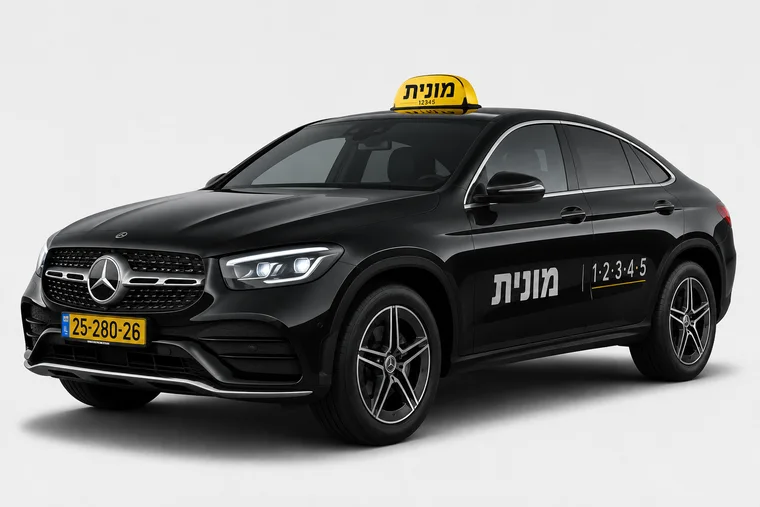
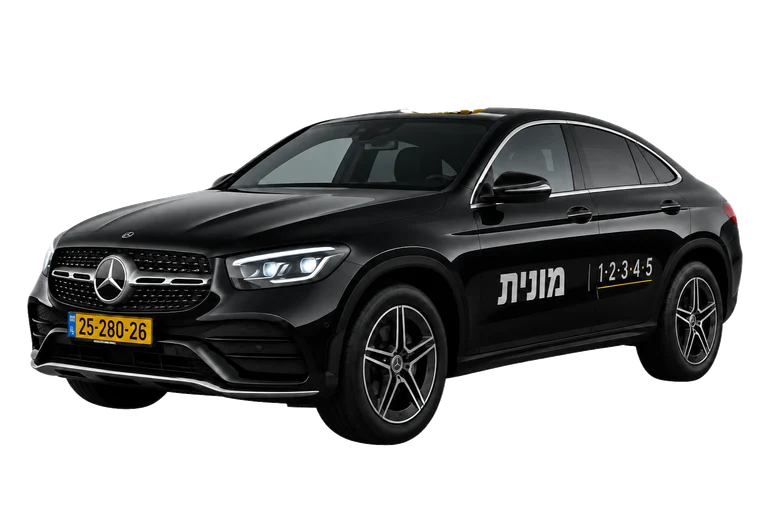
Add Premium fleet + airport sections; transparent floating car images
- 4 car images now transparent WebP (edge flood-fill white->alpha), float on dark cards
- Hero car image also transparent for consistency; enlarged cars in cards
- New "Premium fleet" showroom section after hero (full-width image)
- New full-bleed airport (Natbag) banner section with real clickable WhatsApp CTA over the painted button + descriptive alt for SEO/a11y
- Added "airport" nav link; all new sections responsive (mobile stacks, banner keeps aspect-ratio)
- Restored favicon/logo/hero/og assets that were removed from disk

diff --git a/index.html b/index.html
@@ -264,11 +264,21 @@ header.scrolled{background:rgba(11,11,13,.9);border-block-end-color:var(--line);
 .car-card:hover{border-color:rgba(217,190,134,.4);transform:translateY(-4px)}
 .car-card:hover::before{transform:scaleX(1)}
 .car-card.vip{border-color:rgba(217,190,134,.3)}
-.car-media{position:relative;aspect-ratio:16/10;background:#fff;overflow:hidden;
+.car-media{position:relative;aspect-ratio:16/10;overflow:hidden;
+  background:radial-gradient(ellipse 80% 70% at 50% 42%,#1E1E24,var(--bg-elev) 70%,#101013);
   display:flex;align-items:center;justify-content:center}
-.car-media img{width:100%;height:100%;object-fit:cover;object-position:center;
+/* soft gold/silver halo behind the floating car */
+.car-media::before{content:"";position:absolute;inset:14% 8% 24%;z-index:0;border-radius:50%;
+  background:radial-gradient(ellipse at center,var(--gold-glow),var(--silver-glow) 45%,transparent 70%);
+  filter:blur(16px);transition:opacity .5s var(--ease);opacity:.85}
+/* elliptical floor shadow that grounds the car */
+.car-media::after{content:"";position:absolute;inset-block-end:11%;inset-inline:18%;height:9%;z-index:0;
+  border-radius:50%;background:radial-gradient(ellipse at center,rgba(0,0,0,.55),transparent 72%);filter:blur(5px)}
+.car-media img{position:relative;z-index:1;width:100%;height:100%;object-fit:contain;object-position:center;
+  padding:4% 5% 8%;filter:drop-shadow(0 14px 18px rgba(0,0,0,.45));
   transition:transform .6s var(--ease)}
-.car-card:hover .car-media img{transform:scale(1.05)}
+.car-card:hover .car-media img{transform:scale(1.05) translateY(-2px)}
+.car-card:hover .car-media::before{opacity:1}
 .car-badge{position:absolute;z-index:2;inset-block-start:12px;inset-inline-start:12px;
   background:rgba(11,11,13,.78);color:var(--gold);font-size:12px;font-weight:500;
   letter-spacing:.04em;padding:6px 13px;border-radius:100px;backdrop-filter:blur(4px)}
@@ -278,6 +288,33 @@ header.scrolled{background:rgba(11,11,13,.9);border-block-end-color:var(--line);
 .car-body .btn{width:100%;background:transparent;color:var(--ivory);border:1px solid var(--line);font-size:15px;padding:13px}
 .car-card:hover .car-body .btn{border-color:var(--gold);color:var(--gold)}
 
+/* ====================== premium fleet showroom ====================== */
+.showroom{padding-block:70px 0;border-block-start:1px solid var(--line)}
+.showroom .sec-head{margin-bottom:40px}
+.showroom-img{position:relative;width:100%;max-width:1320px;margin-inline:auto;border-radius:var(--radius);
+  overflow:hidden;border:1px solid var(--line);box-shadow:0 24px 60px rgba(0,0,0,.5)}
+.showroom-img img{width:100%;height:auto;display:block}
+
+/* ====================== airport (natbag) full-bleed banner ====================== */
+.airport{position:relative;width:100%;margin-block:90px 0;min-height:clamp(360px,46vw,560px);
+  display:flex;align-items:center;overflow:hidden;border-block:1px solid var(--line)}
+.airport-bg{position:absolute;inset:0;z-index:0}
+.airport-bg img{width:100%;height:100%;object-fit:cover;object-position:center}
+/* gradient so an HTML CTA on the right stays legible over the banner art */
+.airport::after{content:"";position:absolute;inset:0;z-index:1;
+  background:linear-gradient(90deg,rgba(11,11,13,.15),rgba(11,11,13,.05) 55%,rgba(11,11,13,.45))}
+.airport .wrap{position:relative;z-index:2;width:100%;display:flex;justify-content:flex-start}
+/* invisible-but-clickable CTA placed over the painted "להזמנה עכשיו" button area */
+.airport-cta{display:inline-flex;align-items:center;gap:10px;
+  background:transparent;color:transparent;border:none;cursor:pointer;
+  position:absolute;z-index:3;inset-block-start:62%;inset-inline-start:6%;
+  width:min(260px,30%);height:11%;min-height:46px}
+/* on small screens the painted button shifts; provide a real visible fallback CTA */
+.airport-fallback{display:none}
+@media(max-width:760px){
+  .airport{min-height:0;aspect-ratio:1734/907}
+  .airport-cta{display:none}
+}
 /* ====================== why ====================== */
 .why{padding-block:100px;border-block-start:1px solid var(--line)}
 .why-grid{display:grid;grid-template-columns:repeat(4,1fr);gap:28px;margin-block-start:52px}
@@ -449,6 +486,7 @@ body.a11y-stop .hero h1 .accent .draw{transform:scaleX(1) !important}
     </a>
     <nav class="nav-links" aria-label="ניווט ראשי">
       <a href="#fleet">הרכבים</a>
+      <a href="#airport">שדה התעופה</a>
       <a href="#why">למה אנחנו</a>
       <a href="#areas">אזורי שירות</a>
       <a href="#faq">שאלות נפוצות</a>
@@ -487,6 +525,21 @@ body.a11y-stop .hero h1 .accent .draw{transform:scaleX(1) !important}
   </div>
 </section>
 
+<!-- ===================== premium fleet showroom ===================== -->
+<section class="showroom" id="showroom" aria-label="צי הרכבים של Horian Premium">
+  <div class="wrap">
+    <div class="sec-head reveal"><span class="eyebrow">צי פרימיום</span>
+      <h2>צי רכבי יוקרה — Horian Premium</h2>
+      <p>מבחר רכבים שחורים מהשורה הראשונה: סדאן יוקרה, ג'יפים, ספרינטר ו-VIP — כולם מטופחים ומוכנים לנסיעה.</p></div>
+    <div class="showroom-img reveal">
+      <img src="assets/fleet-hero-1024.webp"
+           srcset="assets/fleet-hero-640.webp 640w, assets/fleet-hero-1024.webp 1024w, assets/fleet-hero-1600.webp 1600w"
+           sizes="(max-width:1360px) 92vw, 1320px"
+           width="1672" height="941" loading="lazy" decoding="async"
+           alt="צי הרכבים של Horian Premium — רכבי יוקרה שחורים באולם תצוגה" />
+    </div>
+  </div>
+</section>
 <!-- ===================== fleet ===================== -->
 <section class="fleet" id="fleet">
   <div class="wrap">
@@ -497,6 +550,19 @@ body.a11y-stop .hero h1 .accent .draw{transform:scaleX(1) !important}
   </div>
 </section>
 
+<!-- ===================== airport (natbag) full-bleed banner ===================== -->
+<section class="airport" id="airport" aria-label="הסעות יוקרה לשדה התעופה נתב״ג">
+  <div class="airport-bg" aria-hidden="true">
+    <img src="assets/airport-1600.webp"
+         srcset="assets/airport-640.webp 640w, assets/airport-1024.webp 1024w, assets/airport-1600.webp 1600w"
+         sizes="100vw" width="1734" height="907" loading="lazy" decoding="async"
+         alt="Horian Premium — הסעות יוקרה לנתב״ג: רכבים שחורים מול טרמינל שדה התעופה בן גוריון, שירות VIP, נהגים מקצועיים, זמינות 24/7" />
+  </div>
+  <div class="wrap">
+    <!-- real clickable CTA over the painted "להזמנה עכשיו" button -->
+    <button class="airport-cta" onclick="generalWhatsApp()" aria-label="הזמנת הסעה לנתב״ג בוואטסאפ">להזמנה עכשיו</button>
+  </div>
+</section>
 <!-- ===================== why ===================== -->
 <section class="why" id="why">
   <div class="wrap">
